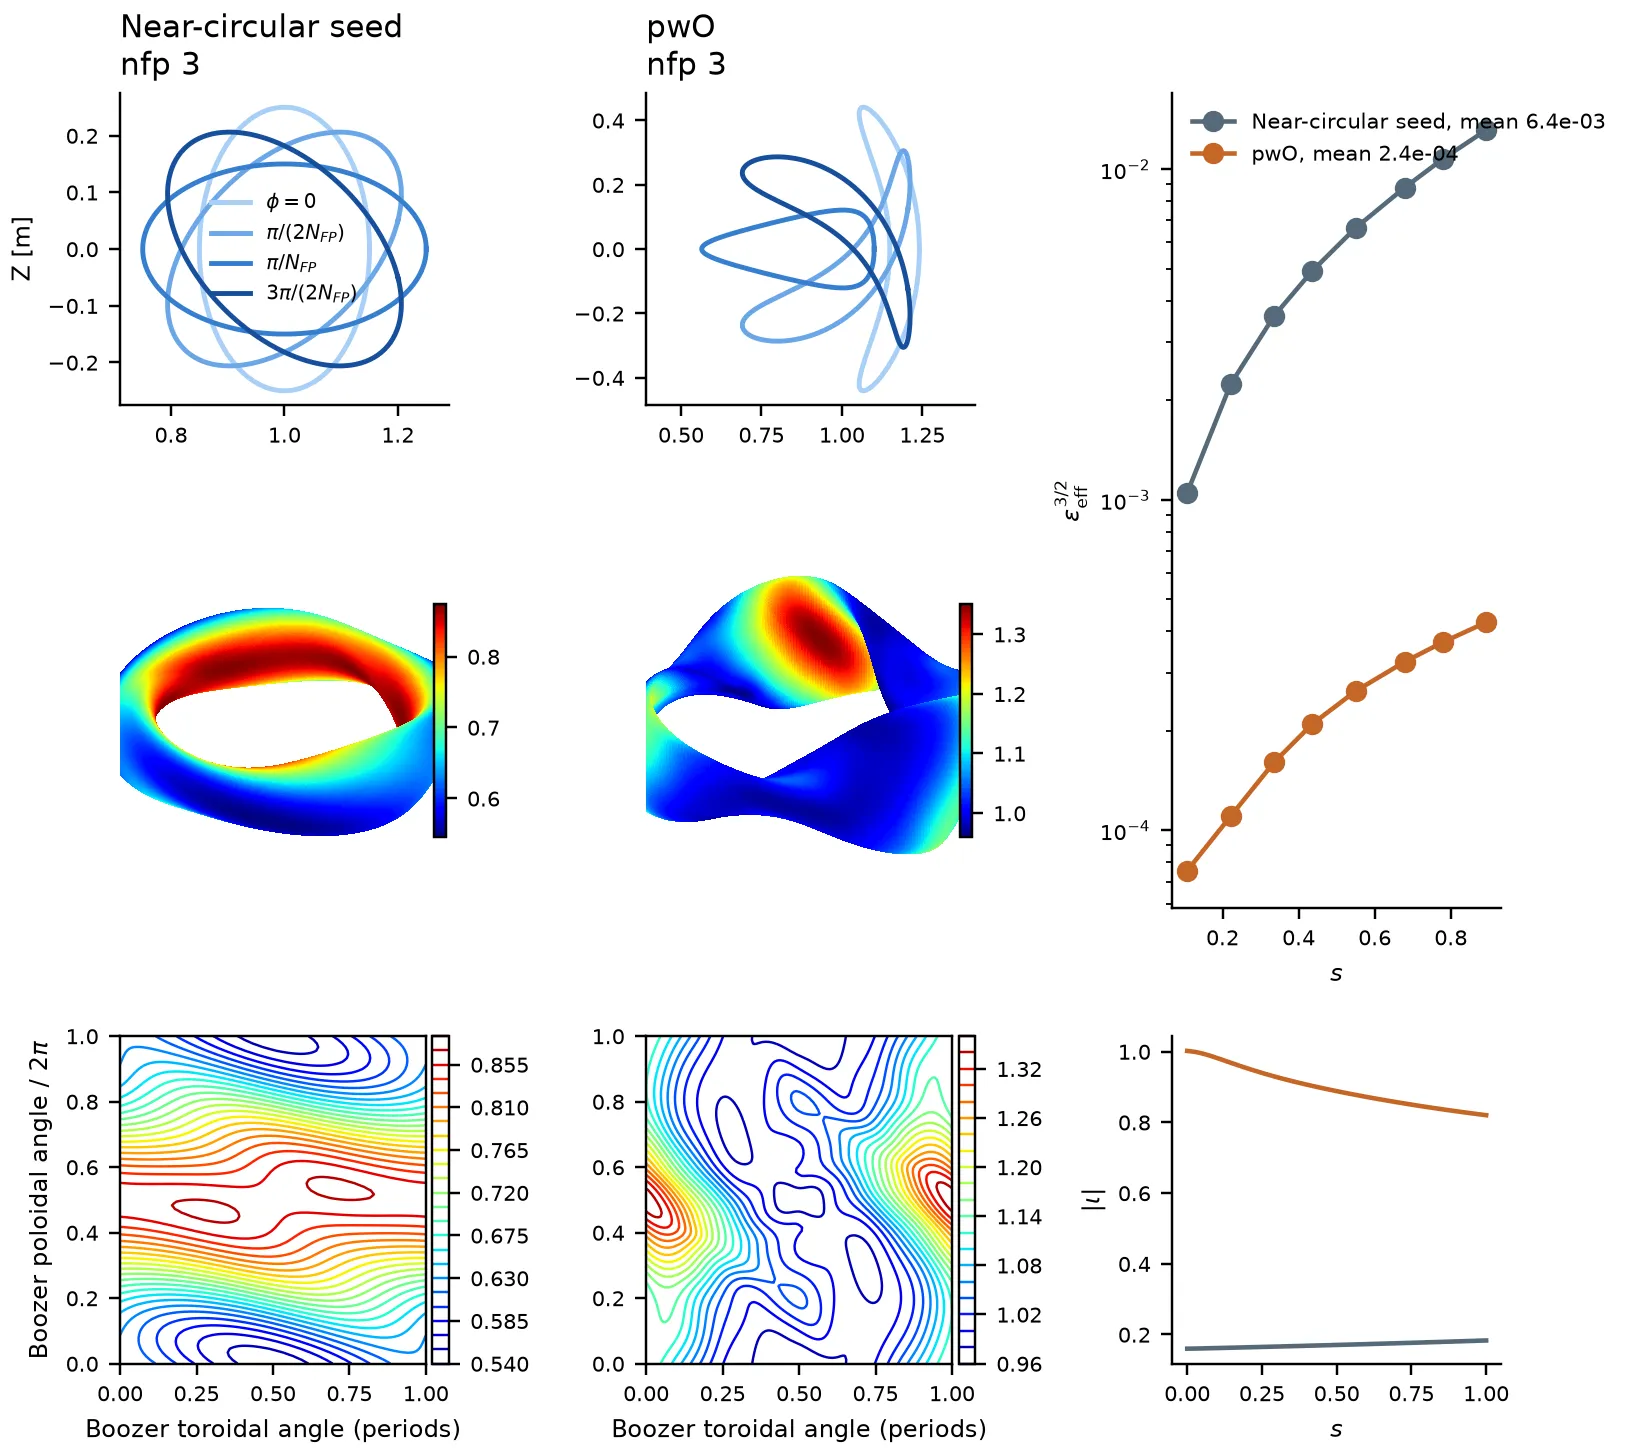
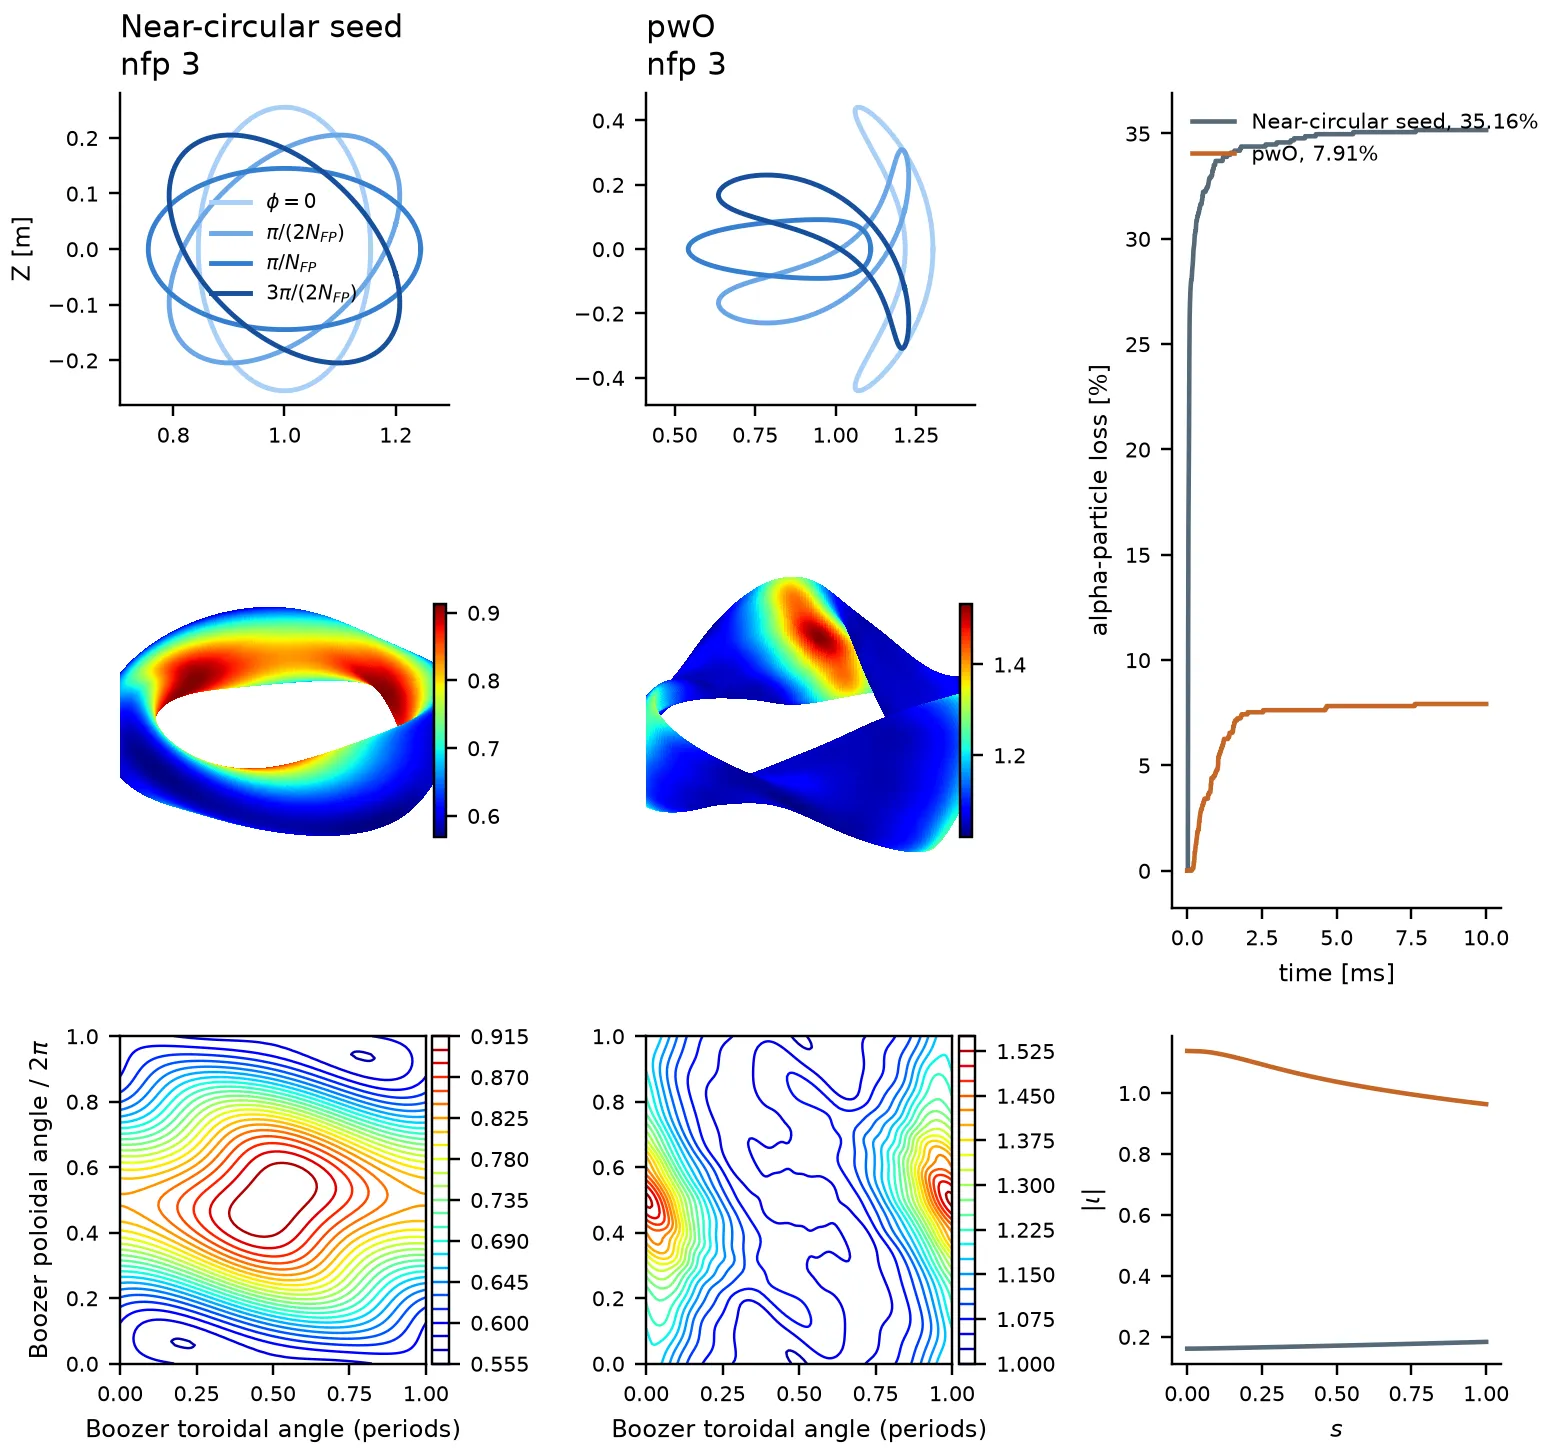
Select the measured well-free pwO default and document its limits

diff --git a/examples/plot_optimized_families.py b/examples/plot_optimized_families.py
@@ -9,8 +9,9 @@ The QA/QH/QP inputs are read from the current directory. The QI comparison
 uses the four validated inputs bundled in ``examples/data``. Each column shows
 four equally spaced toroidal cuts over one field period, the 3-D boundary, and
 ``|B|`` on the LCFS in Boozer coordinates. The pwO figure compares the
-``pwO_optimization.py`` seed and result and adds their ``epsilon_eff^(3/2)``
-and ``|iota|`` profiles; it needs ``vmex[neoclassical]``.
+``pwO_optimization.py`` seed and result using their saved WOUTs and CLI trace
+files, adding measured loss curves and ``|iota|`` profiles. Trace both WOUTs
+with ``vmex --trace`` before drawing this comparison.
 """
 
 from dataclasses import replace
@@ -113,34 +114,24 @@ def _pwo_seed():
     inp = vj.VmecInput.from_file(DATA / f"input.minimal_seed_nfp{PWO_NFP}")
     rbc, zbs = inp.rbc.copy(), inp.zbs.copy()
     rbc[inp.ntor - 1, 1], zbs[inp.ntor - 1, 1] = -0.05, 0.05
-    return replace(inp, rbc=rbc, zbs=zbs, delt=0.5, ftol_array=np.array([1e-10]), niter_array=np.array([30000]))
-
-
-def _solve(inp, ladder=(37, 45, 55, 71)):
-    """Solve on the final radial grid, restarting in small steps as the example does."""
-    equilibrium = None
-    for ns in ladder:
-        equilibrium = opt.solve_equilibrium(
-            replace(inp, ns_array=np.array([ns])), verbose=False, raise_on_max_iterations=True,
-            initial_state=None if equilibrium is None else equilibrium.solution)
-    return equilibrium
+    if PWO_NFP >= 3:
+        rbc[inp.ntor + 1, 1] = zbs[inp.ntor + 1, 1] = 0.005
+    return replace(inp, rbc=rbc, zbs=zbs)
 
 
 def _draw_pwo(output):
-    from vmex.core.neoclassical import screen_transport
-
     result = vj.VmecInput.from_file(QS_INPUT_DIR / f"input.pwO_optimized_nfp{PWO_NFP}")
     cases = ((_pwo_seed(), "Near-circular seed", "#566a79"), (result, "pwO", "#c56627"))
     figure = plt.figure(figsize=(8.1, 7.5), dpi=PLOT_DPI)
     grid = figure.add_gridspec(3, 3, height_ratios=(1.0, 1.2, 1.05), hspace=0.38, wspace=0.6)
     profile, iota = figure.add_subplot(grid[:2, 2]), figure.add_subplot(grid[2, 2])
     for column, (inp, title, color) in enumerate(cases):
-        equilibrium = _solve(inp)
-        wout, ns = equilibrium.wout, int(equilibrium.wout.ns)
-        half = (np.arange(ns - 1) + 0.5) / (ns - 1)
-        surfaces = half[np.abs(half[:, None] - np.linspace(0.1, 0.9, 8)).argmin(axis=0)]
-        q = np.asarray(screen_transport(wout, surfaces))
-        profile.semilogy(surfaces, q, "o-", color=color, label=f"{title}, mean {q.mean():.1e}")
+        stem = f"pwO_seed_nfp{PWO_NFP}" if column == 0 else f"pwO_optimized_nfp{PWO_NFP}"
+        wout = vj.read_wout(QS_INPUT_DIR / f"wout_{stem}.nc")
+        ns = int(wout.ns)
+        trace = np.load(QS_INPUT_DIR / f"{stem}_trace.npz")
+        profile.plot(1e3 * trace["times"], 100 * trace["loss_fractions"], color=color,
+                     label=f"{title}, {100 * trace['loss_fractions'][-1]:.2f}%")
         iota.plot(np.linspace(0, 1, ns), np.abs(wout.iotaf), color=color)
         cross = figure.add_subplot(grid[0, column]); _cross_sections(cross, inp)
         cross.set_title(f"{title}\nnfp {inp.nfp}", loc="left", fontsize=10)
@@ -150,7 +141,7 @@ def _draw_pwo(output):
         boozer = figure.add_subplot(grid[2, column]); _boozer(figure, boozer, wout, f"pwo{column}")
         if column == 0:
             boozer.set_ylabel(r"Boozer poloidal angle / $2\pi$", fontsize=8)
-    profile.set_xlabel("$s$", fontsize=8); profile.set_ylabel(r"$\epsilon_{\rm eff}^{3/2}$", fontsize=8)
+    profile.set_xlabel("time [ms]", fontsize=8); profile.set_ylabel("alpha-particle loss [%]", fontsize=8)
     profile.legend(fontsize=7, frameon=False, loc="upper left"); iota.set_xlabel("$s$", fontsize=8); iota.set_ylabel(r"$|\iota|$", fontsize=8)
     for axis in (profile, iota):
         axis.tick_params(labelsize=7); axis.spines[["top", "right"]].set_visible(False)

diff --git a/tests/test_examples.py b/tests/test_examples.py
@@ -1084,15 +1084,18 @@ def test_qi_optimization_example(tmp_path):
 
 
 @pytest.mark.full
-@pytest.mark.parametrize(("nfp", "optional"), [(3, False), (3, True), (5, False)])
-def test_low_transport_example(tmp_path, nfp, optional):
-    """The flat script runs with either both optional entries or neither."""
+@pytest.mark.parametrize(("nfp", "optional", "well"),
+                         [(3, False, False), (3, True, False), (5, False, False), (3, False, True)])
+def test_low_transport_example(tmp_path, nfp, optional, well):
+    """The flat script supports optional entries and an uncommented well target."""
     pytest.importorskip("booz_xform_jax")
     source = (EXAMPLES / "optimization" / "pwO_optimization.py").read_text()
     if optional:
         pytest.importorskip("dkx.bootstrap")
         source = re.sub(r"(?m)^    # (?=\(|    )", "    ", source)
     source = source.replace("NFP = 3", f"NFP = {nfp}")
+    if well:
+        source = source.replace("# MAGNETIC_WELL_TARGET = 0.04", "MAGNETIC_WELL_TARGET = 0.04")
     directory = tmp_path / "examples" / "optimization"
     directory.mkdir(parents=True)
     (directory.parent / "data").symlink_to(DATA_DIR, target_is_directory=True)
@@ -1100,13 +1103,17 @@ def test_low_transport_example(tmp_path, nfp, optional):
     script.write_text(source)
     out = _run_example(script, tmp_path)
     _assert_cost_decreased(out, "pwO")
-    stem = f"pwO_optimized_nfp{nfp}_well0.04"
+    stem = f"pwO_optimized_nfp{nfp}" + ("_well0.04" if well else "")
     for name in (f"input.{stem}", f"wout_{stem}.nc", f"{stem}_objectives.csv"):
         assert (tmp_path / name).exists()
     costs = np.loadtxt(tmp_path / f"{stem}_objectives.csv", delimiter=",", skiprows=1, ndmin=2)
     np.testing.assert_allclose(costs[:, 1], costs[:, 2:].sum(axis=1), rtol=1e-12, atol=1e-12)
+    columns = (tmp_path / f"{stem}_objectives.csv").read_text().splitlines()[0].split(",")
+    assert ("magnetic_well" in columns) == well
+    if well:
+        assert np.any(costs[:, columns.index("magnetic_well")] > 0)
+    assert (tmp_path / f"wout_pwO_seed_nfp{nfp}.nc").exists()
     if optional:
-        columns = (tmp_path / f"{stem}_objectives.csv").read_text().splitlines()[0]
         assert "constructed_maximum_j" in columns and "j_boot_dkx" in columns
 
 
@@ -1120,6 +1127,13 @@ def test_pwo_optional_setup_keeps_dkx_lazy_and_shared_seeds_circular():
                    and "dkx" in ast.unparse(node) for node in tree.body)
     assert "screen_transport" not in source
     from dataclasses import replace
+    from types import SimpleNamespace
+
+    figure = ast.parse((EXAMPLES / "plot_optimized_families.py").read_text())
+    seed_function = next(node for node in figure.body if isinstance(node, ast.FunctionDef)
+                         and node.name == "_pwo_seed")
+    plot_scope = dict(DATA=DATA_DIR, vj=SimpleNamespace(VmecInput=VmecInput), replace=replace)
+    exec(compile(ast.Module(body=[seed_function], type_ignores=[]), "figure seed", "exec"), plot_scope)
 
     seed_setup = source[source.index("rbc, zbs ="):source.index("### Set up the objective")]
     for nfp in (1, 2, 3, 4, 5):
@@ -1135,6 +1149,10 @@ def test_pwo_optional_setup_keeps_dkx_lazy_and_shared_seeds_circular():
         exec(compile(seed_setup, "example seed", "exec"), scope)
         np.testing.assert_array_equal(scope["inp"].rbc, expected_r)
         np.testing.assert_array_equal(scope["inp"].zbs, expected_z)
+        plot_scope["PWO_NFP"] = nfp
+        figure_seed = plot_scope["_pwo_seed"]()
+        np.testing.assert_array_equal(figure_seed.rbc, expected_r)
+        np.testing.assert_array_equal(figure_seed.zbs, expected_z)
 
 
 @pytest.mark.full  # nightly: every residual evaluation is a finite-beta solve

diff --git a/examples/optimization/pwO_optimization.py b/examples/optimization/pwO_optimization.py
@@ -1,12 +1,13 @@
 #!/usr/bin/env python
-"""Optimize a boundary for piecewise omnigenity with a magnetic well.
+"""Optimize a boundary for piecewise omnigenity.
 
 SciPy nonlinear least squares varies the boundary Fourier coefficients of a
 vacuum equilibrium in stages of increasing mode number.
 The residual vector holds the mapped pwO contour
-variance, the aspect ratio, a floor on the rotational transform, the magnetic
-well and a ceiling on the mirror ratio, and VMEX supplies its exact Jacobian.
+variance, the aspect ratio, a floor on the rotational transform and a ceiling
+on the mirror ratio, and VMEX supplies its exact Jacobian.
 The final boundary is re-solved on a finer radial ladder before it is saved.
+Uncomment the well target to add a magnetic well.
 The commented objectives add a constructed-field maximum-J continuation
 proxy and a kinetic bootstrap response to prescribed low-beta test profiles.
 """
@@ -51,7 +52,8 @@ FREE_MAP = ("a", "b", "c", "eta_min")
 MAX_MODES = [1, 2, 3, 4, 5]
 MAX_NFEV = [15]*len(MAX_MODES)
 ASPECT_TARGET = 6.0
-MAGNETIC_WELL_TARGET = 0.04  # add a magnetic well (needed as the seed for pwO_optimization_finite_beta.py)
+MAGNETIC_WELL_TARGET = 0.0
+# MAGNETIC_WELL_TARGET = 0.04  # enable a well for finite-beta continuation
 MAGNETIC_WELL_WEIGHT = 1e2
 ELONGATION_LIMIT = 10.0
 NS_ARRAY = np.array([35])
@@ -66,7 +68,7 @@ GAMMA_C_WEIGHT = 100.0
 
 # Targets:
 IOTA_FLOOR = 0.31 if NFP==1 else 0.42  # minimum |iota| over the profile; use 0.31 for NFP = 1
-MIRROR_LIMIT = 0.2                # maximum (Bmax-Bmin)/(Bmax+Bmin) on the pwO surfaces
+MIRROR_LIMIT = 0.24               # maximum (Bmax-Bmin)/(Bmax+Bmin) on the pwO surfaces
 AXIS_LIMIT = 0.25                 # maximum RMS helical excursion of the magnetic axis, metres
 EDGE_JACOBIAN_FLOOR = 0.25        # minimum min/max Jacobian ratio in each of the three outer cells
 PWO_WEIGHT = 1.0e3                # the seed's raw pwO variance is of order 0.01
@@ -138,6 +140,7 @@ def boozer_spectrum(equilibrium_state, solver_context):
     return pwo.spectrum_state(equilibrium_state, solver_context)
 
 equilibrium = opt.solve_equilibrium(inp)
+vj.write_wout(f"wout_pwO_seed_nfp{NFP}.nc", equilibrium.wout)
 
 
 # Each term is (function, target, weight).

diff --git a/examples/optimization/single_stage_optimization_pwO.py b/examples/optimization/single_stage_optimization_pwO.py
@@ -1,7 +1,8 @@
 #!/usr/bin/env python
 """Optimize a finite-beta pwO plasma and ESSOS coils together.
 
-Run ``pwO_optimization.py`` first. A finite-beta plasma stage frees the pwO
+Run ``pwO_optimization.py`` with its magnetic-well target enabled first.
+A finite-beta plasma stage frees the pwO
 map as in that example; the joint plasma and coil stage holds the map fixed.
 COILS_INPUT accepts an ESSOS stage-2 fit; COIL_FIT_MAXITER=0 keeps its shapes.
 A cold free-boundary solve and NEO check the design. Requires vmex[neoclassical].
@@ -78,6 +79,12 @@ if COIL_FIT_MAXITER == 0 and COILS_INPUT is None:
     raise ValueError("Skipping the prefit requires COILS_INPUT")
 
 # Seed and coil pre-fit.
+for path in (INPUT_FILE, WOUT_FILE):
+    if not path.is_file():
+        raise FileNotFoundError(
+            f"Missing {path.name}; run pwO_optimization.py with NFP = {NFP} "
+            "and MAGNETIC_WELL_TARGET = 0.04 first")
+
 inp = vj.VmecInput.from_file(INPUT_FILE)
 mpol = max(MAX_MODES[-1] + 2, 5)
 am = np.zeros(21)

diff --git a/examples/optimization/pwO_optimization_finite_beta.py b/examples/optimization/pwO_optimization_finite_beta.py
@@ -98,6 +98,12 @@ if ci_smoke:
 
 ### Set up the equilibrium ####################################################
 
+for path in (INPUT_FILE, WOUT_FILE):
+    if not path.is_file():
+        raise FileNotFoundError(
+            f"Missing {path.name}; run pwO_optimization.py with NFP = {NFP} "
+            "and MAGNETIC_WELL_TARGET = 0.04 first")
+
 inp = vj.VmecInput.from_file(INPUT_FILE)
 mpol = max(inp.mpol, MINIMUM_MPOL)
 inp = replace(inp.change_resolution(mpol=mpol, ntor=mpol, ntheta=2 * mpol + 6, nzeta=2 * mpol + 4),

diff --git a/README.md b/README.md
@@ -280,9 +280,11 @@ maximum-`J` variants, with scalar-adjoint, SciPy, JAXopt and Optax drivers.
 
 [`pwO_optimization.py`](examples/optimization/pwO_optimization.py) minimizes the mapped pwO residual, the variance of |B| along contours of a squeezed coordinate map ([Liu et al.](https://arxiv.org/abs/2603.12139v1)) whose parameters a, b, c and eta_min are optimized together with the boundary, under shared hinge constraints on aspect ratio, rotational transform, mirror ratio, axis excursion and edge Jacobian.
 
-![Near-circular seed and pwO boundary at nfp 3: cross sections, |B| on the boundary, Boozer contours, effective ripple and iota](docs/_static/figures/readme_pwo.webp)
+![Near-circular seed and pwO boundary at nfp 3: cross sections, |B| on the boundary, Boozer contours, alpha-particle loss and iota](docs/_static/figures/readme_pwo.webp)
 
-From a near-circular seed, modes 1–3 and no magnetic well, the NFP 3 vacuum run lowers the pwO residual from 1.0e-2 to 1.3e-4 and the mean NEO effective ripple ε<sub>eff</sub><sup>3/2</sup> by 96% (6.4e-3 to 2.5e-4), at aspect ratio 6.04 and min |ι| = 0.82. The [finite-beta](examples/optimization/pwO_optimization_finite_beta.py) and [single-stage](examples/optimization/single_stage_optimization_pwO.py) examples continue from it; the [docs](docs/explanation/confinement.rst) hold the equations and the workflow.
+The NFP 3 vacuum default uses modes 1–5, no well objective and a soft mirror ceiling of 0.24. At ARIES-CS scale, 4096 common alpha-particle births give 10 ms losses of 34.72% initially and 19.93%, 9.56% and 6.98% for ceilings 0.16, 0.20 and 0.24. The last paired difference is −2.57 percentage points (pointwise 95% interval −3.34 to −1.80), with zero failures and relative energy errors below 6.1e-5. These Jacobian-weighted, finite-horizon results do not establish converged transport or long-term confinement. The figure uses separate 1024-particle native CLI traces.
+
+The selected boundary has aspect ratio 6.02, min |ι| = 0.96, sampled mirror ratio 0.195 and independent normalized physical force error 3.81%. Enable `MAGNETIC_WELL_TARGET = 0.04` before generating the [finite-beta](examples/optimization/pwO_optimization_finite_beta.py) or [single-stage](examples/optimization/single_stage_optimization_pwO.py) seed. Commented rows add a constructed maximum-J proxy and a DKX bootstrap response to prescribed profiles, without certifying maximum-J or pressure/current consistency. The [docs](docs/explanation/confinement.rst) describe the workflow.
 
 ### Free boundary with coils
 

diff --git a/docs/reference/optimization.rst b/docs/reference/optimization.rst
@@ -665,11 +665,12 @@ Install ``vmex`` and run the vacuum example::
 The script has the form of ``QA_optimization.py``: set ``NFP`` (default 3) and the
 mode ladder (``MAX_MODES = [1, 2, 3, 4, 5]``) at the top, and the objective is a list of
 ``(function, target, weight)`` terms: the mapped pwO variance, the aspect ratio
-(6), hinges on ``|iota|`` (floor 0.42), the mirror ratio (ceiling 0.20), the axis
+(6), hinges on ``|iota|`` (floor 0.42), the mirror ratio (ceiling 0.24), the axis
 excursion, the edge-Jacobian ratio and the elongation. The map parameters
 ``a, b, c, eta_min`` are optimized together with the boundary
 (:class:`~vmex.core.pwo.FreeMapProblem`; see :ref:`objectives-mapped-pwo`).
-The magnetic-well target is 0.04. The boundary is re-solved on a finer radial
+The magnetic-well objective is off by default. Uncomment the 0.04
+``MAGNETIC_WELL_TARGET`` line to enable it. The boundary is re-solved on a finer radial
 ladder before export; transport and particle confinement are checked separately.
 Commented objective entries add a constructed-field maximum-J continuation
 penalty and a kinetic current response to specified low-beta test profiles
